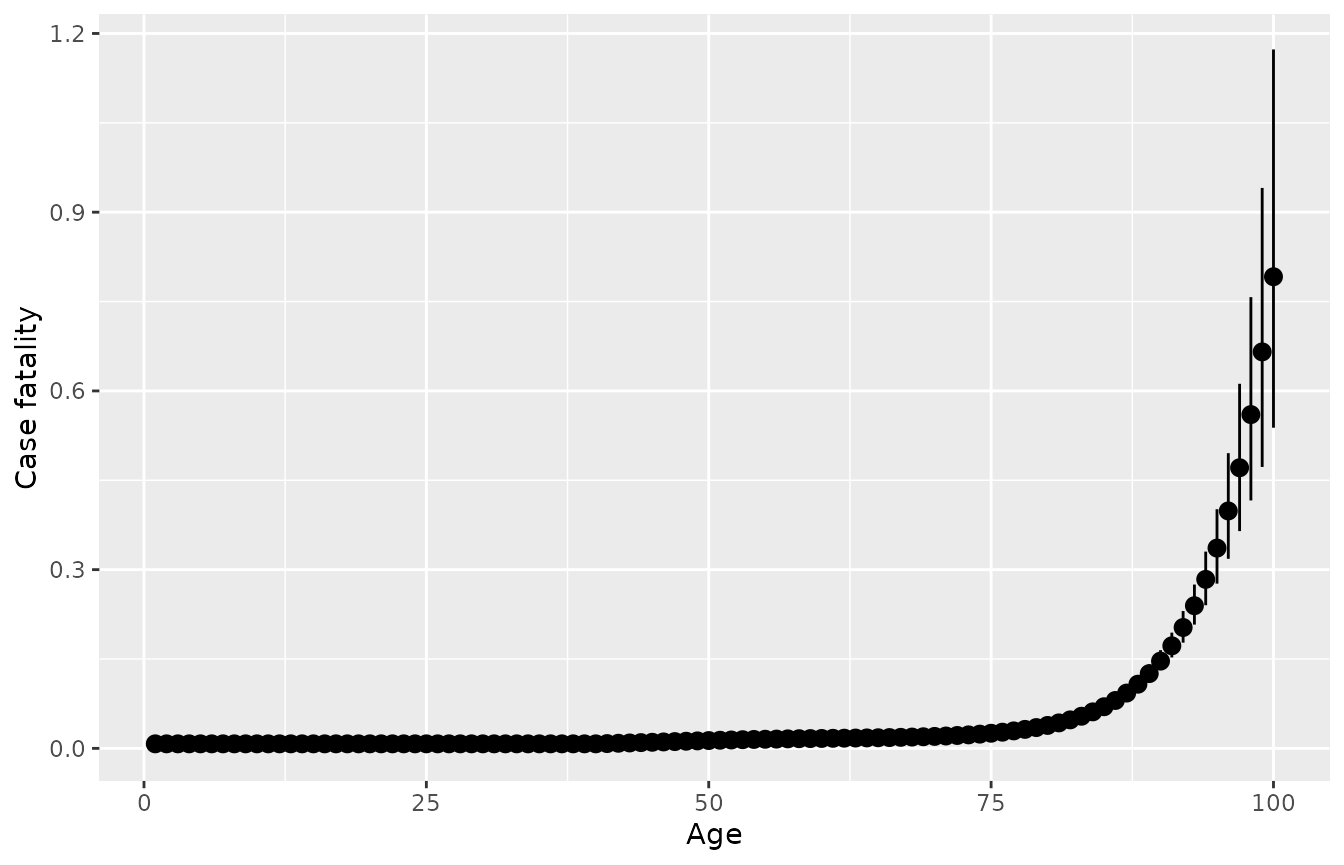
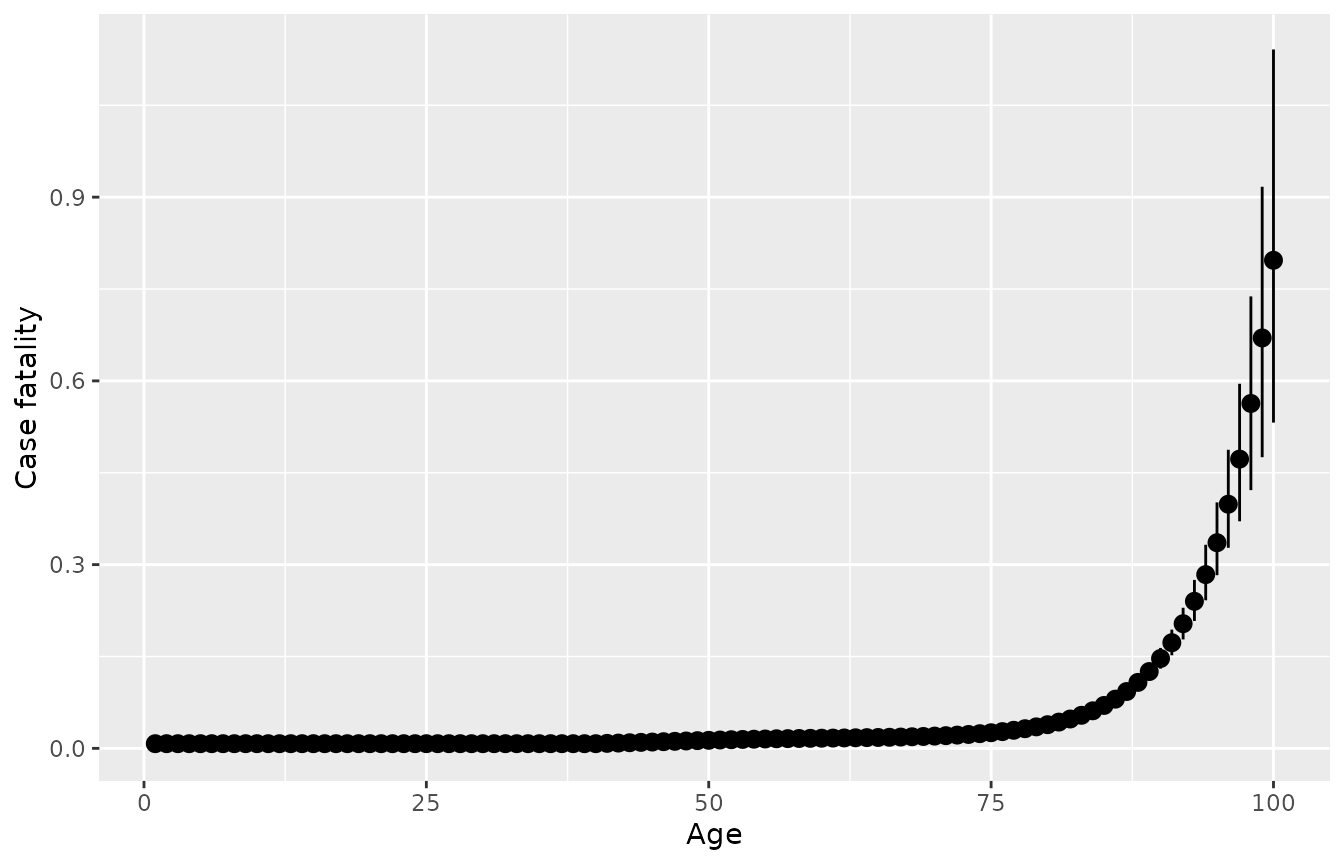
Built site for disbayes: 0.1@0e9fa5f

diff --git a/articles/disbayes.html b/articles/disbayes.html
@@ -325,12 +325,12 @@
   <span class="fu"><a href="https://dplyr.tidyverse.org/reference/filter.html">filter</a></span><span class="op">(</span><span class="va">var</span><span class="op">==</span><span class="st">"cf"</span>, <span class="fu"><a href="https://dplyr.tidyverse.org/reference/between.html">between</a></span><span class="op">(</span><span class="va">age</span>,<span class="fl">60</span>,<span class="fl">65</span><span class="op">)</span><span class="op">)</span> <span class="op">%&gt;%</span>
   <span class="fu"><a href="https://dplyr.tidyverse.org/reference/select.html">select</a></span><span class="op">(</span><span class="va">age</span>, <span class="va">`25%`</span>, <span class="va">`50%`</span>, <span class="va">`75%`</span><span class="op">)</span></code></pre></div>
 <pre><code>##   age        25%        50%        75%
-## 1  60 0.01545664 0.01663334 0.01777888
-## 2  61 0.01570048 0.01687896 0.01791480
-## 3  62 0.01599224 0.01709998 0.01809407
-## 4  63 0.01628485 0.01733306 0.01832704
-## 5  64 0.01656001 0.01754188 0.01857176
-## 6  65 0.01684163 0.01780113 0.01884706</code></pre>
+## 1  60 0.01557327 0.01659074 0.01783523
+## 2  61 0.01580041 0.01679136 0.01797720
+## 3  62 0.01598957 0.01699696 0.01815119
+## 4  63 0.01624125 0.01726001 0.01839711
+## 5  64 0.01650154 0.01752507 0.01858162
+## 6  65 0.01677666 0.01778047 0.01881970</code></pre>
 <p>The default <code>plot</code> method for objects returned by <code>disbayes</code> plots the posterior summaries for case fatality, allowing a quick check of the model results. Or do <code><a href="https://rdrr.io/r/graphics/plot.default.html">plot(..., variable="inc")</a></code> for incidence. The function returns a <code>ggplot2</code> object that can be modified with <code>ggplot2</code> functions, e.g. to add axis labels.</p>
 <div class="sourceCode" id="cb17"><pre class="downlit sourceCode r">
 <code class="sourceCode R"><span class="kw"><a href="https://rdrr.io/r/base/library.html">library</a></span><span class="op">(</span><span class="va"><a href="https://ggplot2.tidyverse.org">ggplot2</a></span><span class="op">)</span>
